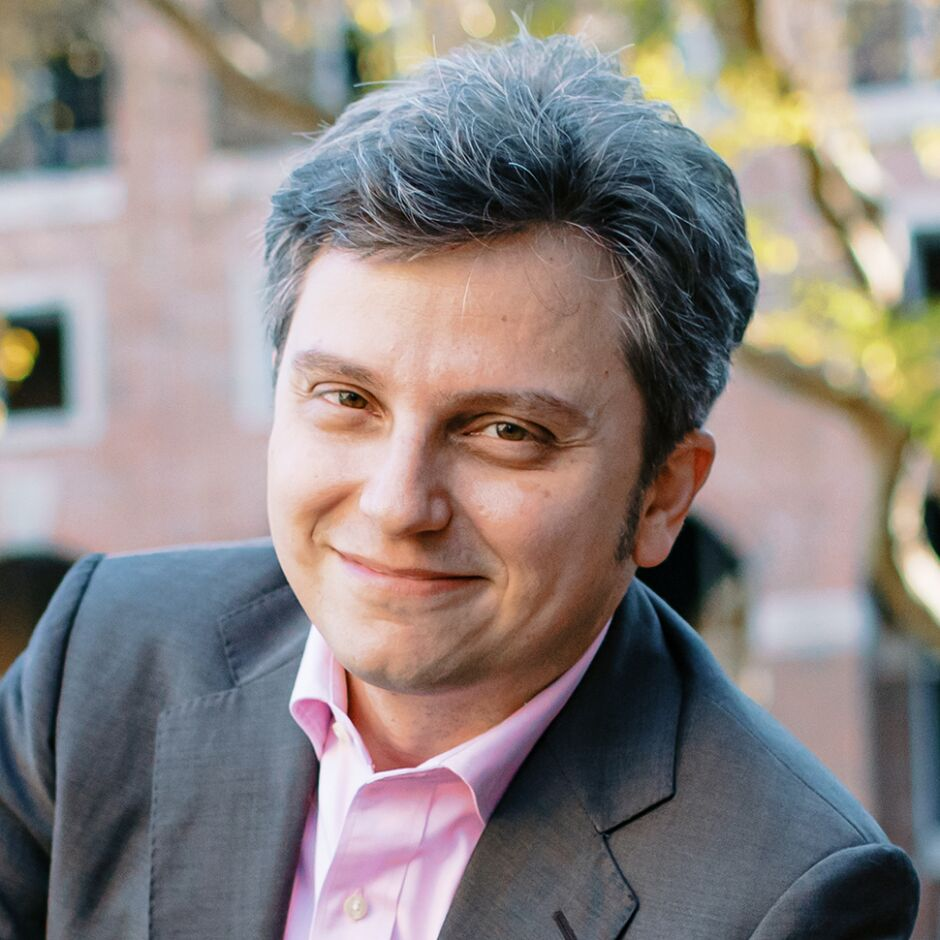
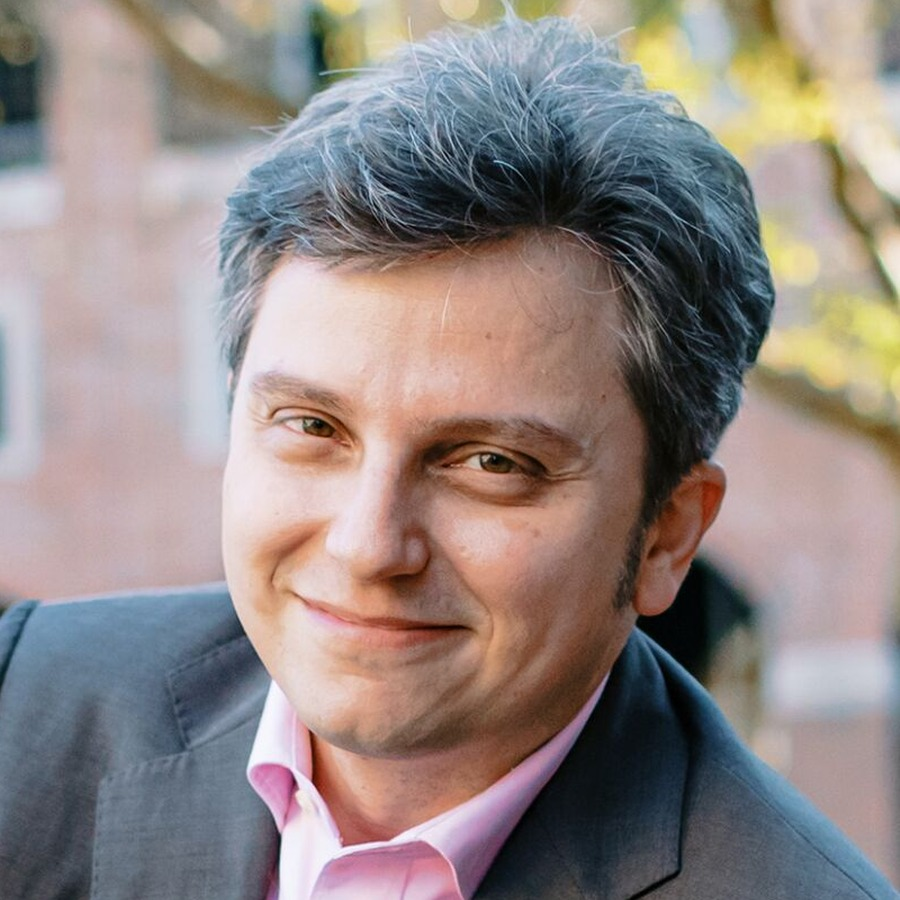
Layout and content pass: centered hero, bigger photos, fixed crops
- Remove the ICN logo mark; keep wordmark only
- Home: center title, dateline, authors and download buttons; drop
  the "Authors & Affiliations" heading, keep just "Authors"
- Author photos: bigger circles, tighter head-and-shoulders crops
  matching the framing used on the previous Google Sites page
- Update Arteaga-Garavito's affiliation to Mays Business School,
  Texas A&M University
- Climate Attention Summary + Main Results: justify body paragraphs
  and widen them to match the stat boxes / figures above them
- Re-crop Figure 13 so it no longer bleeds into the "Concluding
  Remarks" heading

diff --git a/attention.html b/attention.html
@@ -15,7 +15,6 @@
 <header class="site-header">
   <div class="header-inner">
     <a class="brand" href="index.html" style="text-decoration:none;">
-      <span class="brand-mark">ICN</span>
       <span class="brand-text">
         <div class="brand-title">International Climate News</div>
         <div class="brand-sub">Climate attention &middot; currencies &middot; equities &middot; trade</div>
@@ -34,7 +33,7 @@
   <div class="container">
     <div class="eyebrow">Data &amp; Methodology</div>
     <h1 style="font-size:2.1rem;">Climate Attention Summary</h1>
-    <p class="section-intro mt-0" style="margin-top:14px;">
+    <p class="section-intro wide-justify mt-0" style="margin-top:14px;">
       Our central measurement object is the <strong>Climate Attention Index (CAI)</strong>: a high-frequency,
       country-level index of how much attention major news outlets on Twitter/X are paying to climate change,
       relative to everything else they publish. It is built from text, not sentiment labels &mdash; so it captures
@@ -48,7 +47,7 @@
   <div class="container">
     <div class="eyebrow">Coverage</div>
     <h2 class="section-title">A global, high-frequency news corpus</h2>
-    <p class="section-intro">
+    <p class="section-intro wide-justify">
       We track the Twitter/X feeds of major newspapers across a broad cross-section of developed and emerging
       economies, in each country's own language, from January 2014 through December 2022.
     </p>
@@ -71,7 +70,7 @@
         <div class="stat-label">Languages</div>
       </div>
     </div>
-    <p class="section-intro" style="margin-top:14px; font-size:0.85rem;">
+    <p class="section-intro wide-justify" style="margin-top:14px; font-size:0.85rem;">
       Sample period: January 2014 &ndash; December 2022. Languages: English, Spanish, Portuguese, French, German,
       Italian, Arabic, Norwegian and Swedish. Countries span the Americas, Europe, Asia&#8209;Pacific and Africa,
       including both advanced and developing economies (IMF classification).
@@ -83,7 +82,7 @@
   <div class="container">
     <div class="eyebrow">Construction</div>
     <h2 class="section-title">How the index is built</h2>
-    <p class="section-intro">
+    <p class="section-intro wide-justify">
       For each country, we turn raw tweets into a comparable, high-frequency attention score in three steps.
     </p>
 
@@ -114,7 +113,7 @@
   <div class="container">
     <div class="eyebrow">The index</div>
     <h2 class="section-title">The World Climate Attention Index, 2014&ndash;2022</h2>
-    <p class="section-intro">
+    <p class="section-intro wide-justify">
       The index rises sharply around major, unambiguously climate-related events &mdash; COP21, the 2019 Strikes
       for Future, and COP26 &mdash; and falls when attention is crowded out by other major stories, such as the
       COVID&#8209;19 pandemic and the invasion of Ukraine. Throughout the paper, we use spikes in this index
@@ -138,7 +137,7 @@
   <div class="container">
     <div class="card" style="background:var(--tint); border-color:var(--tint-border);">
       <h3 style="margin-bottom:8px;">A note on interpretation</h3>
-      <p style="margin:0; color:var(--ink);">
+      <p class="justify" style="margin:0; color:var(--ink);">
         The main identification strategy isolates days of unusually <em>high climate-related attention</em>,
         not days with a particular kind of climate content. So the results on the
         <a href="results.html">Main Results</a> page are best read as the response to climate&#8209;attention

diff --git a/assets/css/style.css b/assets/css/style.css
@@ -87,21 +87,6 @@ header.site-header {
   color: var(--ink);
 }
 
-.brand-mark {
-  width: 38px;
-  height: 38px;
-  border-radius: 50%;
-  border: 1.5px solid var(--accent);
-  display: flex;
-  align-items: center;
-  justify-content: center;
-  font-family: "Fraunces", serif;
-  font-weight: 700;
-  font-size: 0.95rem;
-  color: var(--accent);
-  flex-shrink: 0;
-}
-
 .brand-text .brand-title {
   font-family: "Fraunces", serif;
   font-weight: 700;
@@ -168,6 +153,24 @@ nav.site-nav a.active {
   font-size: 0.86rem;
 }
 
+/* Centered hero (Home) */
+.hero-center > .container > .eyebrow,
+.hero-center > .container > h1,
+.hero-center > .container > .dateline,
+.hero-center > .container > .authorline {
+  text-align: center;
+}
+.hero-center h1 { margin-left: auto; margin-right: auto; }
+.hero-center .btn-row { justify-content: center; }
+
+/* Justified, wide-measure paragraphs */
+.justify { text-align: justify; text-align-last: left; }
+.wide-justify {
+  max-width: none !important;
+  text-align: justify;
+  text-align-last: left;
+}
+
 /* Buttons */
 .btn-row {
   display: flex;
@@ -195,7 +198,7 @@ nav.site-nav a.active {
   background: var(--accent);
   color: #fff;
 }
-.btn.solid:hover { background: var(--navy-dark); text-decoration: none; }
+.btn.solid:hover { background: var(--accent-dark); text-decoration: none; }
 
 .btn.outline {
   background: transparent;
@@ -271,11 +274,11 @@ section.page-section:last-of-type { border-bottom: none; }
 .author-card { text-align: center; }
 
 .author-photo {
-  width: 132px;
-  height: 132px;
+  width: 184px;
+  height: 184px;
   border-radius: 50%;
   overflow: hidden;
-  margin: 0 auto 14px;
+  margin: 0 auto 16px;
   border: 1px solid var(--border);
   background: var(--tint);
 }
@@ -455,7 +458,11 @@ section.page-section:last-of-type { border-bottom: none; }
   margin: 6px 0 10px;
 }
 
-.result-head p { color: var(--gray); max-width: 680px; }
+.result-head p {
+  color: var(--gray);
+  text-align: justify;
+  text-align-last: left;
+}
 
 .result-figure { padding: 8px 28px 28px; }
 

diff --git a/index.html b/index.html
@@ -15,7 +15,6 @@
 <header class="site-header">
   <div class="header-inner">
     <a class="brand" href="index.html" style="text-decoration:none;">
-      <span class="brand-mark">ICN</span>
       <span class="brand-text">
         <div class="brand-title">International Climate News</div>
         <div class="brand-sub">Climate attention &middot; currencies &middot; equities &middot; trade</div>
@@ -30,7 +29,7 @@
   </div>
 </header>
 
-<section class="hero">
+<section class="hero hero-center">
   <div class="container">
     <div class="eyebrow">Working Paper</div>
     <h1>International Climate News</h1>
@@ -63,14 +62,13 @@
 <section class="page-section">
   <div class="container">
     <div class="eyebrow">Authors</div>
-    <h2 class="section-title">Authors &amp; Affiliations</h2>
 
     <div class="authors-grid">
 
       <div class="author-card">
         <div class="author-photo"><img src="assets/img/authors/majo.jpg" alt="Maria Jose Arteaga-Garavito"></div>
         <div class="author-name">Maria Jose Arteaga&#8209;Garavito</div>
-        <div class="author-role">PhD Student<br>Bocconi University</div>
+        <div class="author-role">Mays Business School<br>Texas A&amp;M University</div>
         <div class="author-links">
           <a href="mailto:majo_arteaga@hotmail.com">Email</a> &middot;
           <a href="https://twitter.com/MajoArteaga">Twitter</a>
@@ -88,7 +86,7 @@
       </div>
 
       <div class="author-card">
-        <div class="author-photo"><img src="assets/img/authors/max.jpg" alt="Mariano Massimiliano Croce" style="object-position:50% 12%;"></div>
+        <div class="author-photo"><img src="assets/img/authors/max.jpg" alt="Mariano Massimiliano Croce"></div>
         <div class="author-name">Mariano M. Croce</div>
         <div class="author-role">Bocconi University<br>CEPR, IGIER &amp; Baffi&#8209;Carefin</div>
         <div class="author-links">

diff --git a/results.html b/results.html
@@ -15,7 +15,6 @@
 <header class="site-header">
   <div class="header-inner">
     <a class="brand" href="index.html" style="text-decoration:none;">
-      <span class="brand-mark">ICN</span>
       <span class="brand-text">
         <div class="brand-title">International Climate News</div>
         <div class="brand-sub">Climate attention &middot; currencies &middot; equities &middot; trade</div>
@@ -34,7 +33,7 @@
   <div class="container">
     <div class="eyebrow">Findings</div>
     <h1 style="font-size:2.1rem;">Main Results</h1>
-    <p class="section-intro mt-0" style="margin-top:14px;">
+    <p class="section-intro wide-justify mt-0" style="margin-top:14px;">
       We trace the response of exchange rates, equity returns and international capital flows to spikes in
       global climate attention (top&#8209;15% CAI days). In every asset class, countries and firms that are more
       sensitive to climate news respond more &mdash; and the effect is persistent, not a one-day blip.

diff --git a/download.html b/download.html
@@ -15,7 +15,6 @@
 <header class="site-header">
   <div class="header-inner">
     <a class="brand" href="index.html" style="text-decoration:none;">
-      <span class="brand-mark">ICN</span>
       <span class="brand-text">
         <div class="brand-title">International Climate News</div>
         <div class="brand-sub">Climate attention &middot; currencies &middot; equities &middot; trade</div>
